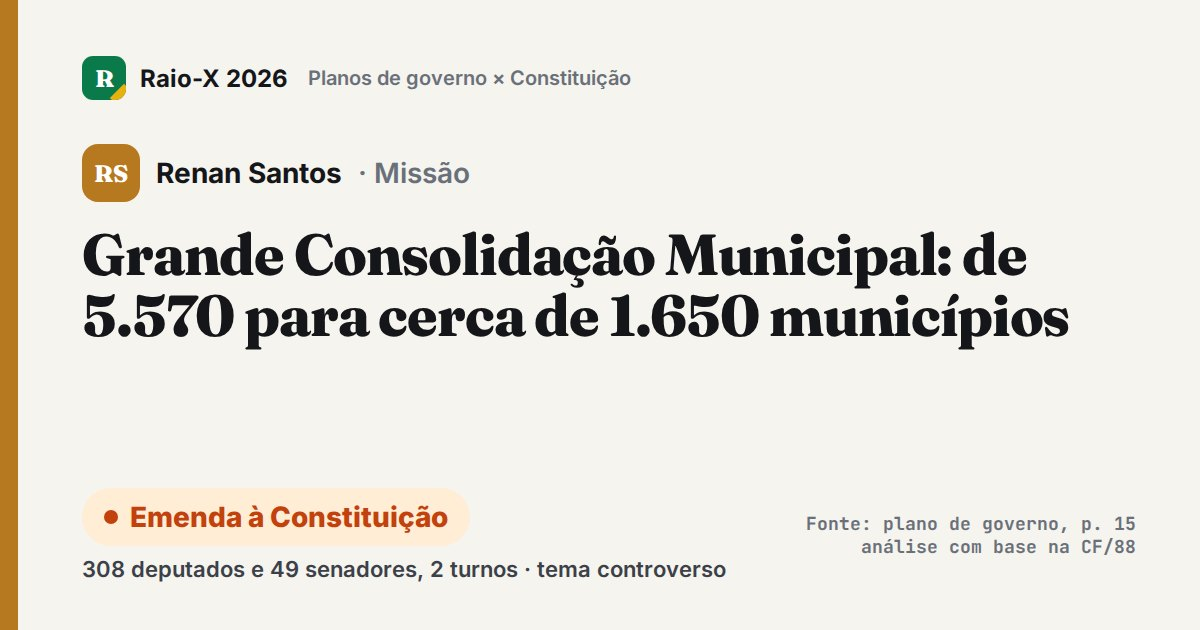
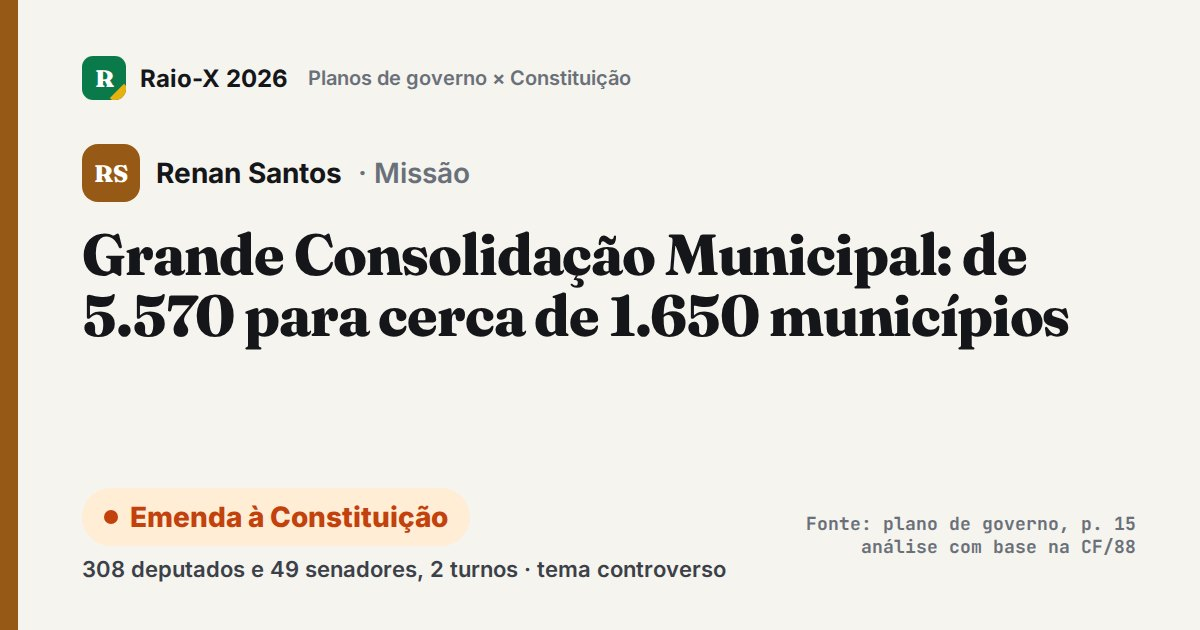
fix: acessibilidade e desempenho (Lighthouse 100 no desktop)
- Contraste AA em textos secundários, selos jurídicos, marca e cor de
  Renan Santos (imagens de prévia regeneradas).
- Hierarquia de títulos corrigida; papel ARIA inválido removido do gráfico
  do orçamento; rótulo do logo alinhado ao texto visível.
- Seções abaixo da dobra renderizadas quando o navegador fica ocioso,
  reduzindo o tempo de bloqueio no carregamento.

Changed region(s): [[0.0, 0.0, 0.0308, 1.0], [0.0617, 0.2111, 0.1233, 0.3317]]

diff --git a/css/styles.css b/css/styles.css
@@ -16,21 +16,21 @@
   --surface-2: #FAF9F5;
   --ink: #14161A;
   --ink-2: #3B4049;
-  --muted: #6A707A;
+  --muted: #595F69;
   --line: #E1DDD2;
   --line-strong: #CBC5B6;
 
-  --brand: #0B7A4B;
+  --brand: #096B41;
   --brand-ink: #FFFFFF;
   --brand-soft: #DDF1E6;
   --gold: #E8B20E;
   --blue: #1D4ED8;
 
   /* Escala de viabilidade jurídica */
-  --v-exec: #15803D;
-  --v-lei: #2563EB;
-  --v-lc: #7C3AED;
-  --v-pec: #C2410C;
+  --v-exec: #166534;
+  --v-lei: #1D4ED8;
+  --v-lc: #6D28D9;
+  --v-pec: #B03A0A;
   --v-vedado: #B91C1C;
   --v-exec-bg: #DCFCE7;
   --v-lei-bg: #DBEAFE;
@@ -265,7 +265,7 @@ button { font: inherit; color: inherit; cursor: pointer; background: none; borde
   background: var(--surface); border: 1px solid var(--line); border-radius: var(--r-lg);
   padding: 26px; box-shadow: var(--shadow-3); position: relative;
 }
-.hero-card h3 { font-family: var(--font-display); font-size: 1.25rem; margin-bottom: 4px; }
+.hero-card h2 { font-family: var(--font-display); font-size: 1.25rem; margin-bottom: 4px; }
 .hero-card > p { color: var(--muted); font-size: .9rem; margin-bottom: 18px; }
 .filter-steps { display: grid; gap: 10px; counter-reset: s; }
 .filter-step {
@@ -303,7 +303,7 @@ button { font: inherit; color: inherit; cursor: pointer; background: none; borde
 }
 .rung::before { content: ""; position: absolute; left: 0; right: 0; top: 0; height: 5px; background: var(--vc); border-radius: inherit; border-bottom-left-radius: 0; border-bottom-right-radius: 0; }
 .rung-step { font-family: var(--font-mono); font-size: .72rem; font-weight: 700; color: var(--vc); }
-.rung h4 { font-size: 1.05rem; margin: 6px 0 4px; }
+.rung h3 { font-size: 1.05rem; margin: 6px 0 4px; }
 .rung .who { font-size: .82rem; font-weight: 600; color: var(--ink); margin-bottom: 8px; }
 .rung p { font-size: .86rem; color: var(--ink-2); }
 .rung .count { margin-top: 12px; font-family: var(--font-display); font-weight: 800; font-size: 1.8rem; color: var(--vc); line-height: 1; }
@@ -348,7 +348,7 @@ button { font: inherit; color: inherit; cursor: pointer; background: none; borde
 .cand-party { font-size: .84rem; color: var(--muted); font-weight: 600; }
 .cand-thesis { margin-top: 14px; font-size: .95rem; color: var(--ink-2); }
 .cand-body { padding: 18px 22px 22px; display: flex; flex-direction: column; gap: 14px; flex: 1; }
-.cand-body h5 { font-size: .72rem; text-transform: uppercase; letter-spacing: .08em; color: var(--muted); }
+.cand-body h4 { font-size: .72rem; text-transform: uppercase; letter-spacing: .08em; color: var(--muted); }
 .mini-list { list-style: none; display: grid; gap: 8px; }
 .mini-list li { display: flex; align-items: baseline; justify-content: space-between; gap: 10px; font-size: .9rem; }
 .mini-list li > span:first-child { flex: 1; min-width: 0; }
@@ -589,7 +589,7 @@ details.more[open] summary { margin-bottom: 14px; }
 .method { display: grid; gap: 16px; }
 @media (min-width: 860px) { .method { grid-template-columns: repeat(3, 1fr); } }
 .method-item { background: var(--surface); border: 1px solid var(--line); border-radius: var(--r-md); padding: 20px; }
-.method-item h4 { margin-bottom: 6px; }
+.method-item h3 { margin-bottom: 6px; font-size: 1.05rem; }
 .method-item p, .method-item li { font-size: .9rem; color: var(--ink-2); }
 .method-item ul { padding-left: 18px; display: grid; gap: 4px; }
 .sources { font-size: .85rem; color: var(--ink-2); columns: 1; }
@@ -602,7 +602,7 @@ details.more[open] summary { margin-bottom: 14px; }
 .site-footer a { color: var(--bg); }
 .foot-grid { display: grid; gap: 28px; }
 @media (min-width: 860px) { .foot-grid { grid-template-columns: 1.4fr 1fr 1fr; } }
-.site-footer h4 { color: var(--bg); font-family: var(--font-display); font-size: 1.1rem; margin-bottom: 10px; }
+.site-footer h2 { color: var(--bg); font-family: var(--font-display); font-size: 1.1rem; margin-bottom: 10px; }
 .site-footer ul { list-style: none; display: grid; gap: 6px; font-size: .9rem; }
 .site-footer p { font-size: .9rem; }
 .foot-bottom { margin-top: 36px; padding-top: 20px; border-top: 1px solid color-mix(in srgb, var(--bg) 18%, transparent); font-size: .8rem; display: flex; flex-wrap: wrap; justify-content: space-between; gap: 10px; }

diff --git a/index.html b/index.html
@@ -30,7 +30,7 @@
 
   <header class="site-header">
     <div class="container header-row">
-      <a href="#topo" class="brand" aria-label="Raio-X 2026, início">
+      <a href="#topo" class="brand">
         <span class="brand-mark" aria-hidden="true">R</span>
         <span class="brand-text"><b>Raio-X 2026</b><span>Planos de governo sob a lupa</span></span>
       </a>
@@ -91,7 +91,7 @@
           </div>
 
           <aside class="hero-card reveal" aria-label="Método em três filtros">
-            <h3>Três filtros para cada promessa</h3>
+            <h2>Três filtros para cada promessa</h2>
             <p>Uma proposta só vira política pública se passar pelos três.</p>
             <div class="filter-steps">
               <div class="filter-step">
@@ -230,7 +230,7 @@
           <div class="budget-card reveal">
             <h3>Para onde vai a despesa primária da União (2026)</h3>
             <p id="budget-note"></p>
-            <div class="stack" id="budget-stack" role="list" aria-label="Composição do orçamento"></div>
+            <div class="stack" id="budget-stack" role="group" aria-label="Composição do orçamento"></div>
             <div class="budget-legend" id="budget-legend"></div>
             <div class="explain" style="margin:22px 0 0">
               <span class="explain-icon" aria-hidden="true">?</span>
@@ -288,15 +288,15 @@
 
         <div class="method reveal">
           <div class="method-item">
-            <h4>📄 Fonte primária</h4>
+            <h3>📄 Fonte primária</h3>
             <p>Cada proposta tem página e, quando possível, a citação literal do plano. Os PDFs estão no repositório e abrem na página citada.</p>
           </div>
           <div class="method-item">
-            <h4>⚖ Critério jurídico</h4>
+            <h3>⚖ Critério jurídico</h3>
             <p>Classificamos o instrumento <b>mínimo</b> para implementar a proposta como escrita. “Controverso” indica que há divergência séria entre juristas ou no STF.</p>
           </div>
           <div class="method-item">
-            <h4>🚫 O que não fazemos</h4>
+            <h3>🚫 O que não fazemos</h3>
             <ul>
               <li>Não damos notas nem ranking de candidatos.</li>
               <li>Não avaliamos se a proposta é boa ou ruim, só o que ela exige.</li>
@@ -332,14 +332,14 @@
     <div class="container">
       <div class="foot-grid">
         <div>
-          <h4>Raio-X dos Planos de Governo 2026</h4>
+          <h2>Raio-X dos Planos de Governo 2026</h2>
           <p>
             Projeto independente de jornalismo de dados. Não tem vínculo com partidos ou candidaturas.
             Encontrou um erro? Abra uma issue no repositório.
           </p>
         </div>
         <div>
-          <h4>Seções</h4>
+          <h2>Seções</h2>
           <ul>
             <li><a href="#candidatos">Candidatos</a></li>
             <li><a href="#propostas">Propostas</a></li>
@@ -348,7 +348,7 @@
           </ul>
         </div>
         <div>
-          <h4>Documentos originais</h4>
+          <h2>Documentos originais</h2>
           <ul id="foot-docs"></ul>
         </div>
       </div>

diff --git a/js/app.js b/js/app.js
@@ -161,7 +161,7 @@
     $('#ladder').innerHTML = D.legalScale.map((s) => `
       <div class="rung v-${s.id}">
         <div class="rung-step">${esc(s.step)}</div>
-        <h4>${esc(s.label)}</h4>
+        <h3>${esc(s.label)}</h3>
         <div class="who">${esc(s.who)}</div>
         <p>${rich(s.desc)}</p>
         <div class="count">${counts[s.id]}<small>propostas analisadas</small></div>
@@ -198,11 +198,11 @@
         </div>
         <div class="cand-body">
           <div>
-            <h5>Perfil jurídico das ${c.proposals.length} propostas</h5>
+            <h4>Perfil jurídico das ${c.proposals.length} propostas</h4>
             <div style="margin-top: 8px;">${verdictBar(c.proposals)}</div>
           </div>
           <div>
-            <h5>Propostas que mais exigem</h5>
+            <h4>Propostas que mais exigem</h4>
             <ul class="mini-list" style="margin-top: 8px;">
               ${highlights.map((p) => `<li><span>${esc(p.title)}</span>${chip(p.verdict)}</li>`).join('')}
             </ul>
@@ -380,7 +380,7 @@
     const fmt = (v) => (v >= 1000 ? `R$ ${(v / 1000).toLocaleString('pt-BR', { maximumFractionDigits: 2 })} tri` : `R$ ${v} bi`);
 
     $('#budget-stack').innerHTML = b.items.map((i) => `
-      <button role="listitem" data-bitem="${i.id}" style="--bc:${i.color}; width:${pct(i.value)}%" aria-label="${esc(i.label)}: ${fmt(i.value)} (${pct(i.value).toFixed(1)}%)">
+      <button data-bitem="${i.id}" style="--bc:${i.color}; width:${pct(i.value)}%" aria-label="${esc(i.label)}: ${fmt(i.value)} (${pct(i.value).toFixed(1)}%)">
         ${pct(i.value) > 9 ? `<span>${pct(i.value).toFixed(0)}%</span>` : ''}
       </button>`).join('');
 
@@ -755,21 +755,31 @@
      Init
      ========================================================== */
   document.addEventListener('DOMContentLoaded', () => {
+    // Primeiro o que aparece na tela inicial; o resto quando o navegador estiver livre
     initTheme();
     renderHero();
     renderLadder();
     renderCandidates();
-    renderFilters();
-    renderMatrix();
-    initCompare();
-    renderRadar();
-    renderBudget();
-    renderContext();
-    renderFixes();
-    renderGlossary();
-    renderFooter();
-    initTooltips();
-    initModal();
-    initChrome();
+
+    const rest = () => {
+      renderFilters();
+      renderMatrix();
+      initCompare();
+      renderRadar();
+      renderBudget();
+      renderContext();
+      renderFixes();
+      renderGlossary();
+      renderFooter();
+      initTooltips();
+      initChrome();
+      initModal();
+      // Link direto para uma seção (#orcamento etc.): rola depois que ela existe
+      const target = /^#[a-z-]+$/.test(location.hash) && document.getElementById(location.hash.slice(1));
+      if (target) target.scrollIntoView();
+    };
+    if (/^#(p|dossie|comparar)[/-]/.test(location.hash) || /^#[a-z-]+$/.test(location.hash)) rest();
+    else if ('requestIdleCallback' in window) requestIdleCallback(rest, { timeout: 400 });
+    else setTimeout(rest, 0);
   });
 })();

diff --git a/js/data.js b/js/data.js
@@ -680,7 +680,7 @@ const ELECTION_DATA = {
       party: "Missão",
       coalition: "Não informada no documento",
       vice: "Aroldo Medina",
-      color: "#B7791F",
+      color: "#975A16",
       initials: "RS",
       document: {
         title: "O Futuro é Glorioso — Resumo executivo do Livro Amarelo",
